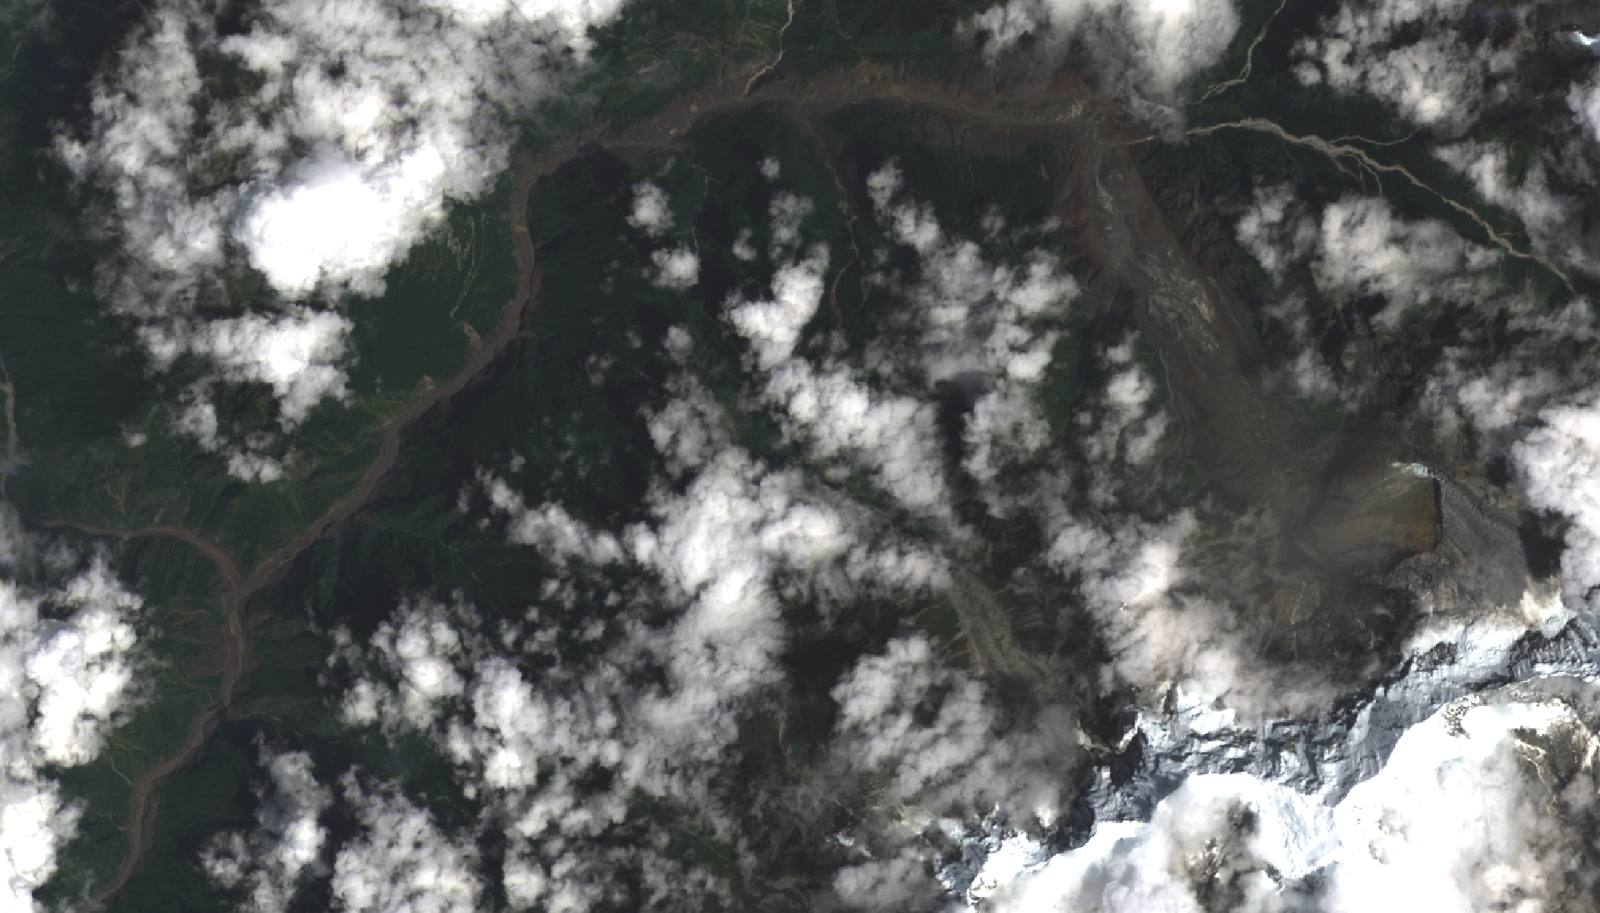
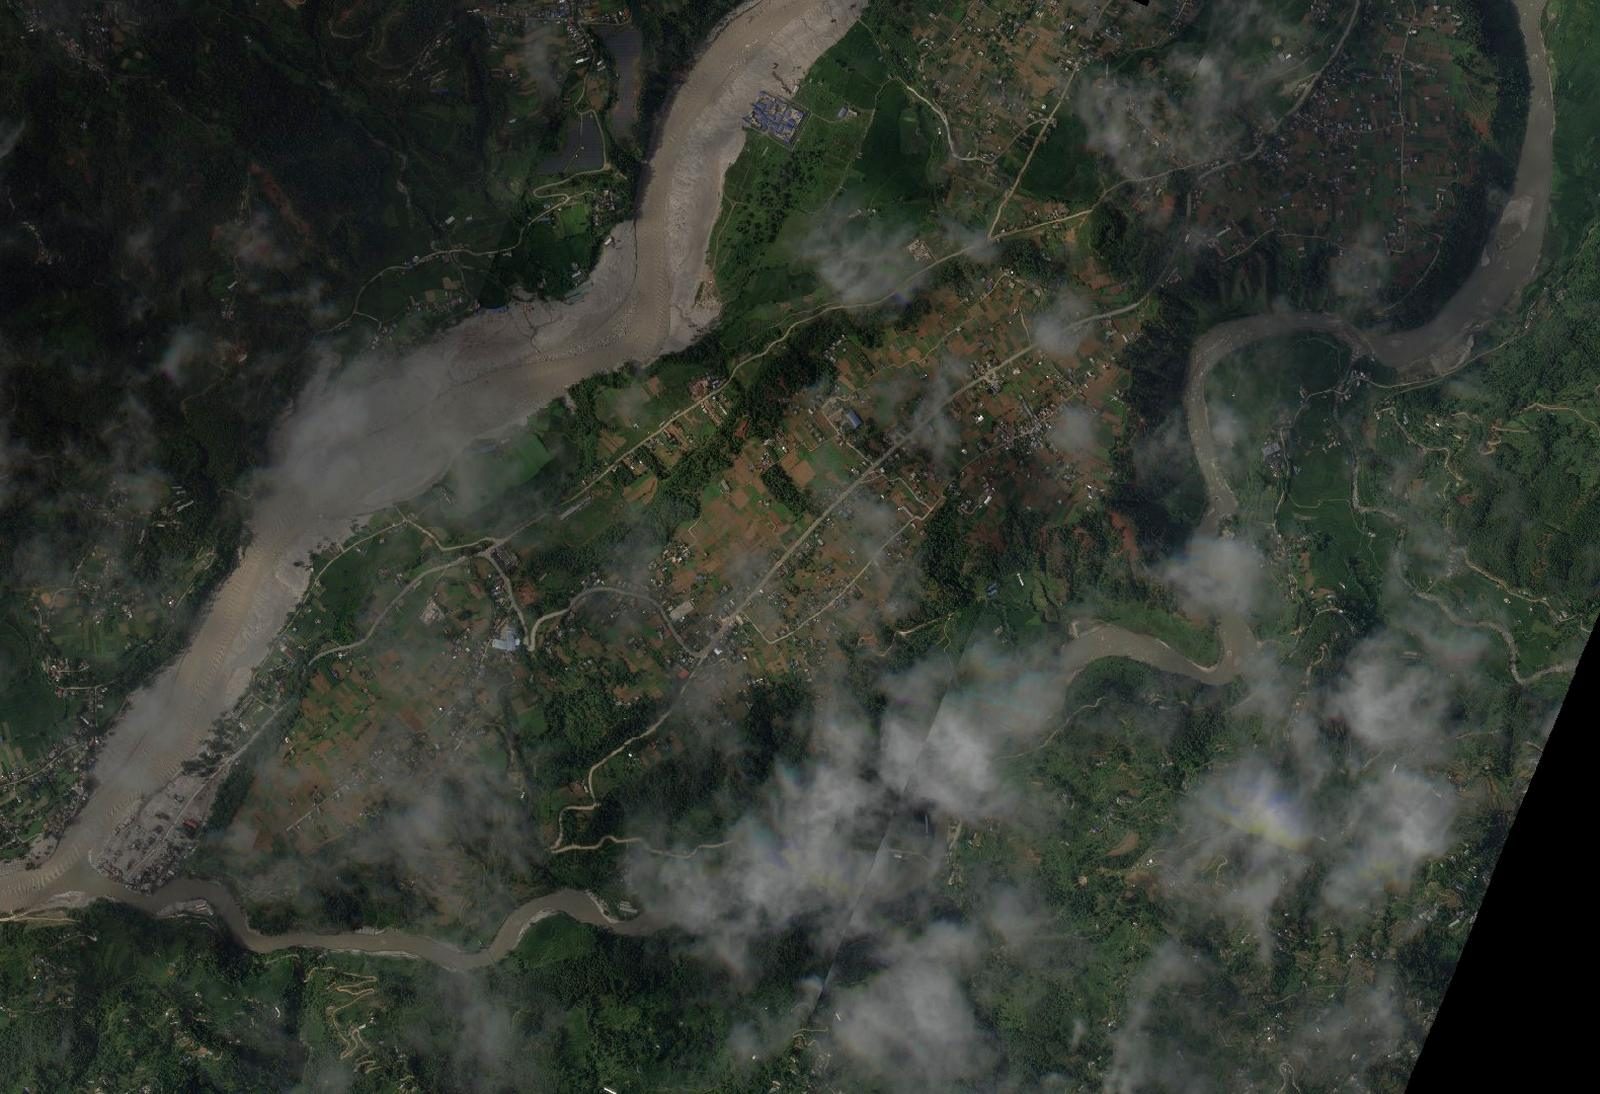
fix(desk): login background is Planet SkySat imagery of the Trishuli at Betrawati, 31 Aug 2026 (CC BY-NC 4.0)

diff --git a/src/desk/login.tsx b/src/desk/login.tsx
@@ -9,13 +9,17 @@ import { Button } from "@/components/ui/button";
 import { Card, CardContent, CardDescription, CardHeader, CardTitle } from "@/components/ui/card";
 import { Logo } from "@/components/logo";
 
-/** Background credit: Landsat 9 view of the 2026 Rasuwa / Bhote Koshi flood aftermath. Keep the attribution when you change the image. */
+/**
+ * Background: Planet SkySat scene of the flood-widened Trishuli at Betrawati, five days after the
+ * 26 August 2026 Bhote Koshi outburst flood. Planet's disaster data release is CC BY-NC 4.0 —
+ * fine for this non-commercial volunteer site; keep the attribution when you change the image.
+ */
 const photo = {
   src: "/images/desk-login.jpg",
-  title: "Landsat 9 image of the Bhote Koshi flood aftermath, 26 August 2026",
-  author: "USGS",
-  license: "public domain",
-  url: "https://commons.wikimedia.org/wiki/File:Landsat_Nepal_flood_2026-08-26.png",
+  title: "SkySat image of the Trishuli at Betrawati, 31 August 2026",
+  author: "Planet Labs PBC",
+  license: "CC BY-NC 4.0",
+  url: "https://source.coop/planet/disasterdata/nepal-flash-flood-2026-08-26",
 };
 
 function GoogleMark() {
@@ -62,7 +66,7 @@ export function DeskLogin({
   return (
     <div className="relative flex min-h-dvh flex-col bg-foreground text-background">
       <img src={photo.src} alt="" className="absolute inset-0 size-full object-cover" />
-      <div className="absolute inset-0 bg-gradient-to-b from-foreground/70 via-foreground/55 to-foreground/85" aria-hidden="true" />
+      <div className="absolute inset-0 bg-gradient-to-b from-foreground/60 via-foreground/45 to-foreground/80" aria-hidden="true" />
 
       <div className="relative mx-auto flex w-full max-w-6xl items-center justify-between px-4 py-5 sm:px-6">
         <Button

diff --git a/src/i18n/desk.ts b/src/i18n/desk.ts
@@ -112,7 +112,7 @@ export const deskStrings = {
     dispatchTag_story: "Story",
     deskGoToOrg: "Go to My organization",
     deskLoginTagline: "Sign in to moderate needs, offers, projects and organizations.",
-    deskLoginPhotoCredit: "Image: {title} · {author}, {license} · via Wikimedia Commons",
+    deskLoginPhotoCredit: "Image: {title} · © {author}, {license}",
     deskHomeLabel: "Return to the front page",
     deskNepali: "नेपाली",
     deskEnglish: "English",
@@ -230,7 +230,7 @@ export const deskStrings = {
     dispatchTag_story: "कथा",
     deskGoToOrg: "मेरो संस्थामा जानुहोस्",
     deskLoginTagline: "आवश्यकता, प्रस्ताव, परियोजना र संस्थाहरू सम्पादन गर्न साइन इन गर्नुहोस्।",
-    deskLoginPhotoCredit: "तस्बिर: {title} · {author}, {license} · Wikimedia Commons",
+    deskLoginPhotoCredit: "तस्बिर: {title} · © {author}, {license}",
     deskHomeLabel: "मुख्य पृष्ठमा फर्कनुहोस्",
     deskNepali: "नेपाली",
     deskEnglish: "अङ्ग्रेजी",

diff --git a/docs/DESIGN-GUIDELINES.md b/docs/DESIGN-GUIDELINES.md
@@ -226,8 +226,8 @@ stays). Scope is a `Badge variant="info"` under the shell title.
 
 Sign-in gates (wrong role, guidelines acknowledgement) are a centered `Card` (`max-w-md`) with the logo, title, one
 paragraph and one primary button. Signed-out visitors to `/desk` are sent to `/desk/login` (`src/desk/login.tsx`): a
-full-bleed photo with a dark gradient, the Google-branded sign-in button, and a photo credit line. The photo is
-CC BY-SA from Wikimedia Commons; keep the attribution when you swap it.
+full-bleed satellite image with a dark gradient, the Google-branded sign-in button, and a credit line. The image
+is from Planet Labs' 2026 flood data release (CC BY-NC 4.0); keep the attribution when you swap it.
 
 ### 5.5 Chat assistant (`src/lib/chat-widget.ts`)
 
